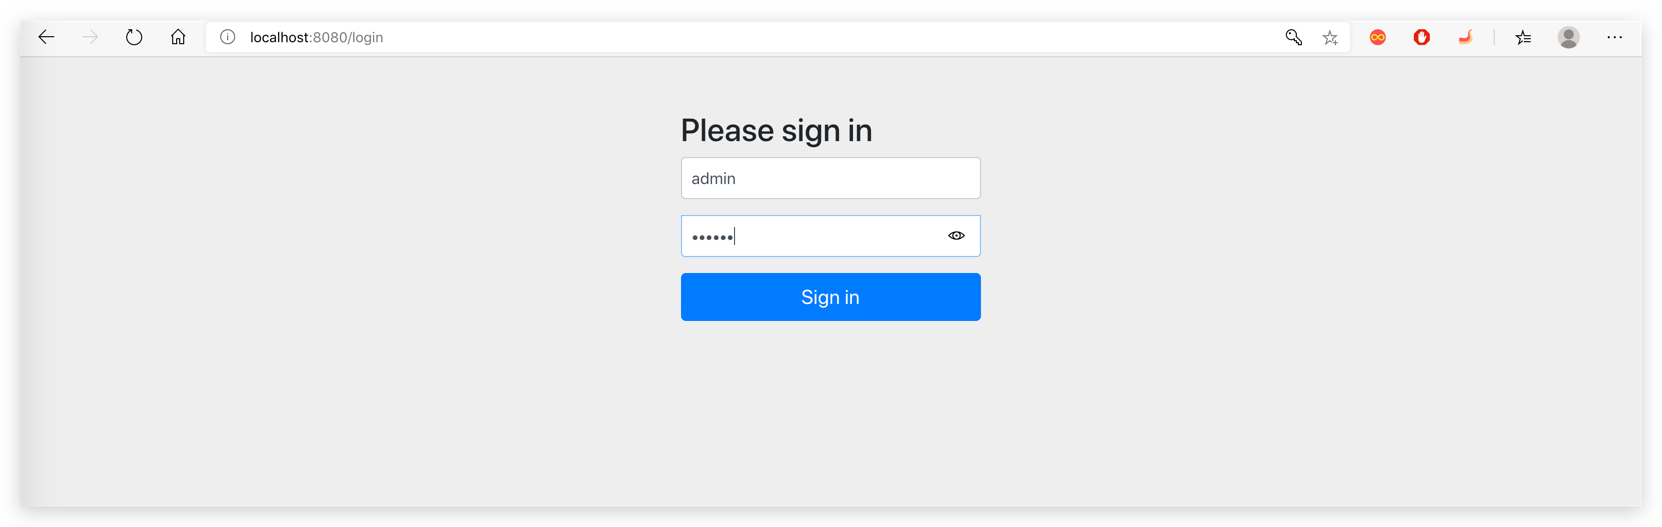
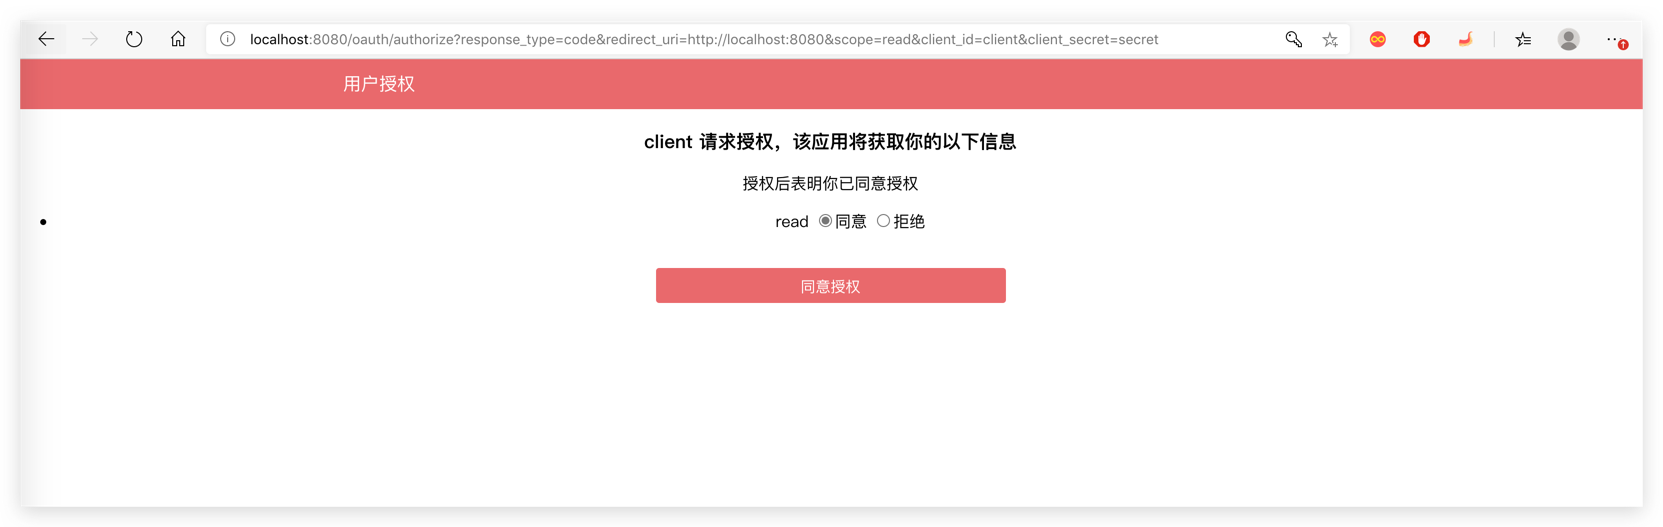
:sparkles: 自定义oauth2登录、授权界面

diff --git a/admin-spring-boot-starter/src/main/resources/templates/oauth/confirm_access.html b/admin-spring-boot-starter/src/main/resources/templates/oauth/confirm_access.html
@@ -1,0 +1,68 @@
+<!DOCTYPE html>
+<html xmlns="http://www.w3.org/1999/xhtml" xmlns:th="http://www.thymeleaf.org">
+<head>
+    <meta charset="UTF-8">
+    <title>授权</title>
+</head>
+<style>
+    html {
+        padding: 0px;
+        margin: 0px;
+    }
+    .title {
+        background-color: #E9686B;
+        height: 50px;
+        padding-left: 20%;
+        padding-right: 20%;
+        color: white;
+        line-height: 50px;
+        font-size: 18px;
+    }
+    .title-left {
+        float: right;
+    }
+    .title-right {
+        float: left;
+    }
+    .title-left a {
+        color: white;
+    }
+    .container {
+        clear: both;
+        text-align: center;
+    }
+    .btn {
+        width: 350px;
+        height: 35px;
+        line-height: 35px;
+        cursor: pointer;
+        margin-top: 20px;
+        border-radius: 3px;
+        background-color: #E9686B;
+        color: white;
+        border: none;
+        font-size: 15px;
+    }
+</style>
+<body style="margin: 0px">
+<div class="title">
+    <div class="title-right">用户授权</div>
+</div>
+<div class="container">
+    <h3 th:text="${clientId}+' 请求授权，该应用将获取你的以下信息'"></h3>
+    授权后表明你已同意授权
+    <form method="post" action="/oauth/authorize">
+        <input type="hidden" name="user_oauth_approval" value="true">
+        <input type="hidden" name="_csrf" th:value="${_csrf.getToken()}"/>
+        <ul>
+            <li th:each="item:${scopes}">
+                <span th:text="${item}"/>
+                <input type="radio" th:name="'scope.'+${item}" value="true" checked=""/><span>同意</span>
+                <input type="radio" th:name="'scope.'+${item}" value="false"/><span>拒绝</span>
+            </li>
+        </ul>
+        <button class="btn" type="submit">同意授权</button>
+    </form>
+</div>
+</body>
+</html>

diff --git a/admin-spring-boot-starter/src/main/resources/templates/oauth/login.html b/admin-spring-boot-starter/src/main/resources/templates/oauth/login.html
@@ -1,0 +1,63 @@
+<!DOCTYPE html>
+<html xmlns="http://www.w3.org/1999/xhtml" xmlns:th="http://www.thymeleaf.org">
+<head>
+    <meta charset="UTF-8">
+    <title>登录</title>
+</head>
+<style>
+    .login-container {
+        margin: 50px;
+        width: 100%;
+    }
+    .form-container {
+        margin: 0px auto;
+        width: 50%;
+        text-align: center;
+        box-shadow: 1px 1px 10px #888888;
+        height: 300px;
+        padding: 5px;
+    }
+    input {
+        margin-top: 10px;
+        width: 350px;
+        height: 30px;
+        border-radius: 3px;
+        border: 1px #E9686B solid;
+        padding-left: 2px;
+
+    }
+    .btn {
+        width: 350px;
+        height: 35px;
+        line-height: 35px;
+        cursor: pointer;
+        margin-top: 20px;
+        border-radius: 3px;
+        background-color: #E9686B;
+        color: white;
+        border: none;
+        font-size: 15px;
+    }
+    .title{
+        margin-top: 5px;
+        font-size: 18px;
+        color: #E9686B;
+    }
+</style>
+<body>
+<div class="login-container">
+    <div class="form-container">
+        <p class="title">用户登录</p>
+        <form name="login" method="post" action="/login">
+            <input type="text" name="username" placeholder="用户名"/>
+            <br>
+            <input type="password" name="password" placeholder="密码"/>
+            <br>
+            <input type="hidden" name="_csrf" th:value="${_csrf.getToken()}"/>
+            <button type="submit" class="btn">登&nbsp;&nbsp;录</button>
+        </form>
+        <p style="color: red" th:if="${param.error}">用户名不存在或密码错误</p>
+    </div>
+</div>
+</body>
+</html>

diff --git a/admin-spring-boot-starter/src/main/resources/templates/oauth/index.html b/admin-spring-boot-starter/src/main/resources/templates/oauth/index.html
@@ -1,0 +1,13 @@
+<!DOCTYPE html>
+<html xmlns="http://www.w3.org/1999/xhtml" xmlns:th="http://www.thymeleaf.org">
+<head>
+    <meta charset="UTF-8">
+    <title>首页</title>
+</head>
+<body>
+<div class="container">
+    <p style="text-align: center">首页</p>
+    <p style="color: red; text-align: center" th:if="${param.error}" th:text="'访问错误: '+${param.error}"></p>
+</div>
+</body>
+</html>

diff --git a/admin-spring-boot-starter/src/main/java/tk/fishfish/admin/controller/oauth2/AuthorizationController.java b/admin-spring-boot-starter/src/main/java/tk/fishfish/admin/controller/oauth2/AuthorizationController.java
@@ -1,0 +1,31 @@
+package tk.fishfish.admin.controller.oauth2;
+
+import org.springframework.security.oauth2.provider.AuthorizationRequest;
+import org.springframework.stereotype.Controller;
+import org.springframework.web.bind.annotation.GetMapping;
+import org.springframework.web.bind.annotation.SessionAttributes;
+
+import java.util.Map;
+import java.util.Set;
+
+/**
+ * OAuth2授权页面替换
+ *
+ * @author 奔波儿灞
+ * @version 1.5.0
+ */
+@Controller
+@SessionAttributes("authorizationRequest")
+public class AuthorizationController {
+
+    @GetMapping("/oauth/confirm_access")
+    public String confirmAccess(Map<String, Object> model) {
+        AuthorizationRequest authorizationRequest = (AuthorizationRequest) model.get("authorizationRequest");
+        String clientId = authorizationRequest.getClientId();
+        Set<String> scopes = authorizationRequest.getScope();
+        model.put("clientId", clientId);
+        model.put("scopes", scopes);
+        return "oauth/confirm_access";
+    }
+
+}

diff --git a/oauth2-spring-boot-starter/src/main/java/tk/fishfish/oauth2/configuration/authorization/WebSecurityConfiguration.java b/oauth2-spring-boot-starter/src/main/java/tk/fishfish/oauth2/configuration/authorization/WebSecurityConfiguration.java
@@ -46,9 +46,8 @@ public class WebSecurityConfiguration extends WebSecurityConfigurerAdapter {
         // 只处理oauth，登录相关，其他资源安全交给资源服务器
         http.requestMatchers().antMatchers("/oauth/**", "/login/**", "/logout/**")
                 .and().authorizeRequests().antMatchers("/oauth/**").authenticated()
-                .and().formLogin().permitAll()
-                .and().logout().permitAll()
-                .and().csrf().disable();
+                .and().formLogin().loginPage("/login").loginProcessingUrl("/login").permitAll()
+                .and().logout().permitAll();
     }
 
 }

diff --git a/admin-spring-boot-starter/src/main/java/tk/fishfish/admin/controller/oauth2/LoginController.java b/admin-spring-boot-starter/src/main/java/tk/fishfish/admin/controller/oauth2/LoginController.java
@@ -1,0 +1,22 @@
+package tk.fishfish.admin.controller.oauth2;
+
+import org.springframework.stereotype.Controller;
+import org.springframework.web.bind.annotation.GetMapping;
+
+import java.util.Map;
+
+/**
+ * OAuth2登录页面替换
+ *
+ * @author 奔波儿灞
+ * @version 1.5.0
+ */
+@Controller
+public class LoginController {
+
+    @GetMapping("/login")
+    public String login(Map<String, Object> model) {
+        return "oauth/login";
+    }
+
+}

diff --git a/admin-spring-boot-starter/src/main/java/tk/fishfish/admin/controller/oauth2/HomeController.java b/admin-spring-boot-starter/src/main/java/tk/fishfish/admin/controller/oauth2/HomeController.java
@@ -1,0 +1,20 @@
+package tk.fishfish.admin.controller.oauth2;
+
+import org.springframework.stereotype.Controller;
+import org.springframework.web.bind.annotation.GetMapping;
+
+/**
+ * 首页
+ *
+ * @author 奔波儿灞
+ * @version 1.5.0
+ */
+@Controller
+public class HomeController {
+
+    @GetMapping({"/", "/index"})
+    public String index() {
+        return "oauth/index";
+    }
+
+}

diff --git a/admin-spring-boot-starter/readme.md b/admin-spring-boot-starter/readme.md
@@ -4,7 +4,7 @@
 
 ## 功能
 
-- 认证（OAuth2）
+- 认证（OAuth2），自定义登录、授权界面
 - 用户
 - 角色
 - 审计
@@ -153,9 +153,13 @@ grant_type=client_credentials&client_id=client&client_secret=secret
 
     此时，跳转到登录界面
 
-    ![authorize_code](docs/authorize_code_1.png)
+    ![登录界面](docs/login.png)
 
-    输入用户名密码后跳转到 code 获取地址：`http://localhost:8080/?code=eLX0VK`
+    输入用户名密码后跳转到授权界面
+
+    ![授权界面](docs/authorize_code_1.png)
+   
+    统一授权后跳转到 code 获取地址：`http://localhost:8080/?code=eLX0VK`
     
     ![authorize_code](docs/authorize_code_2.png)
 
